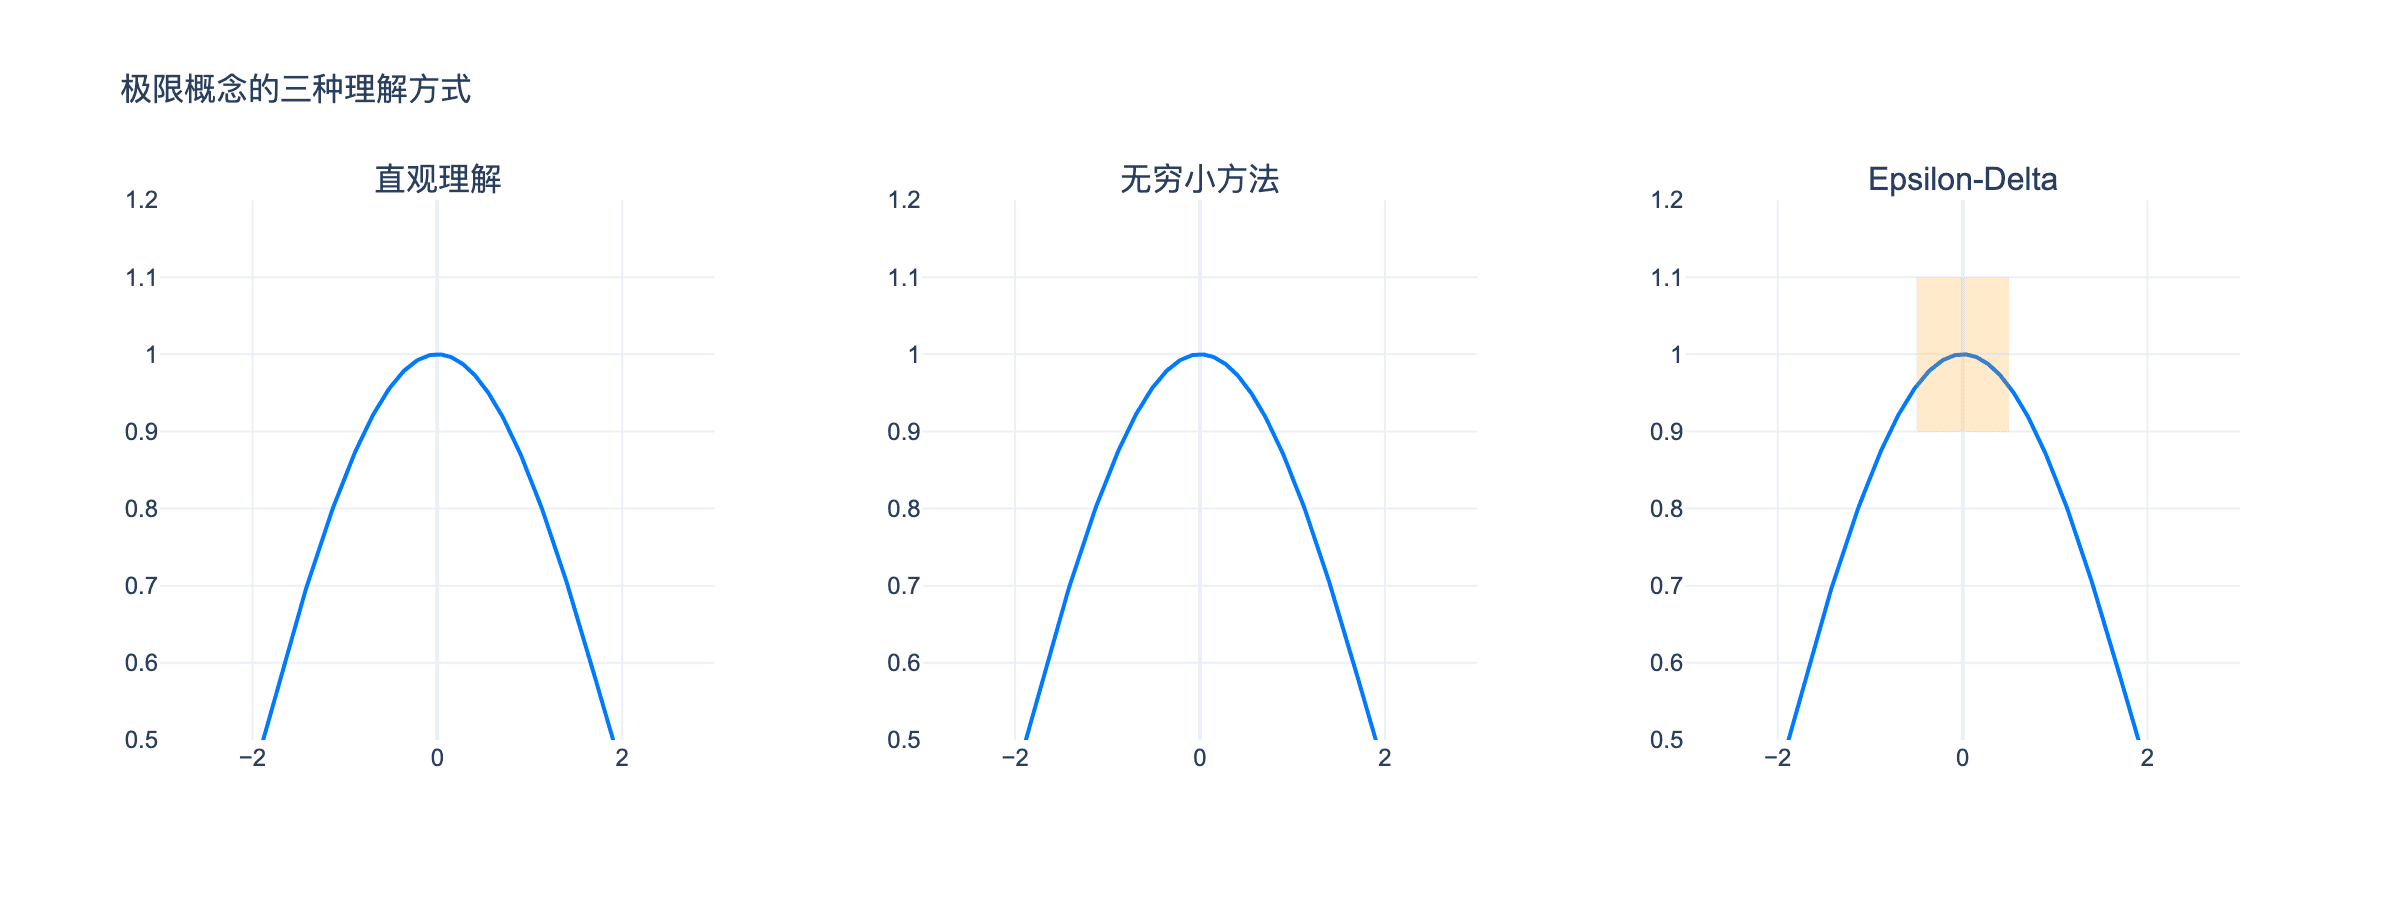
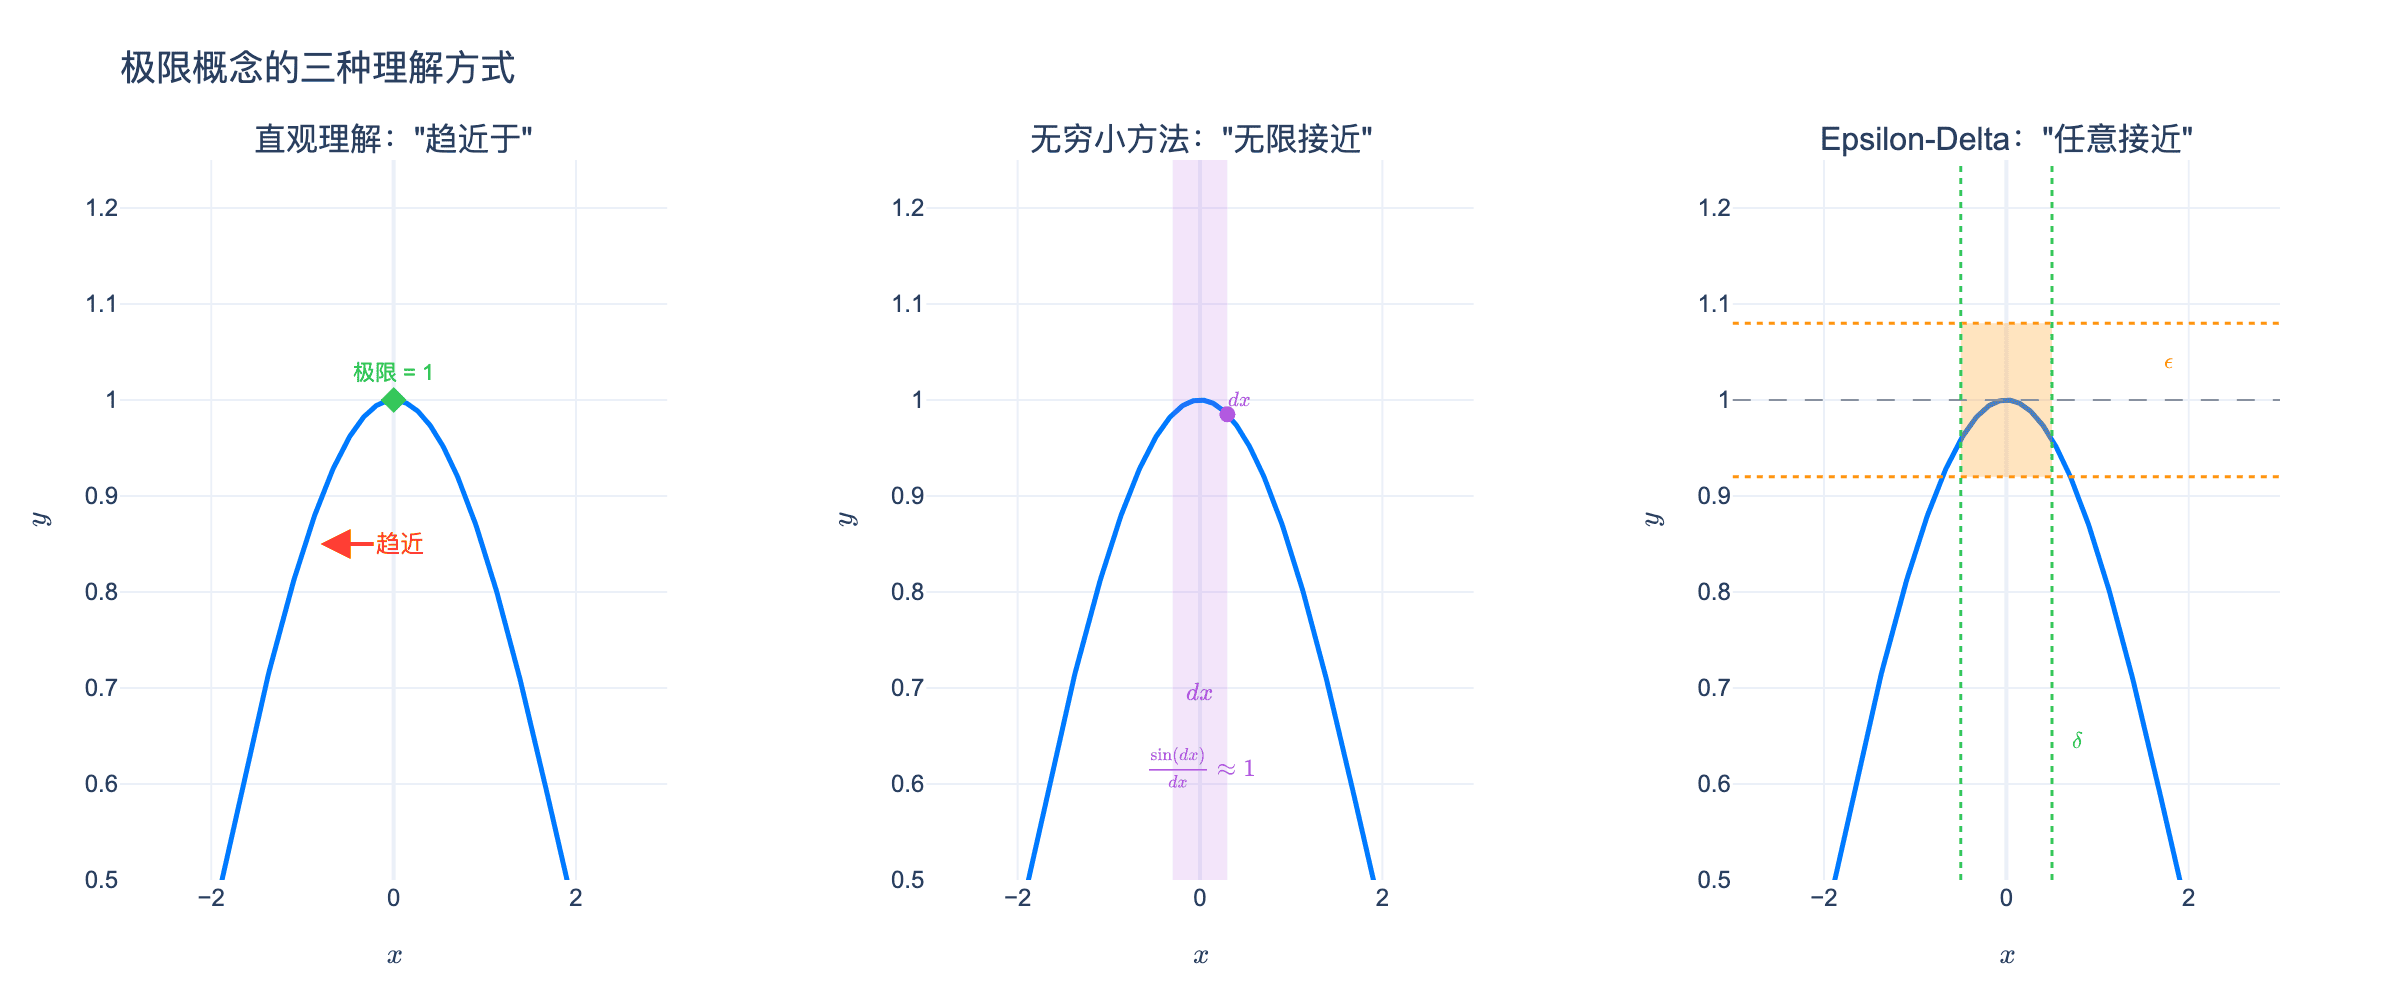
Update content

diff --git a/generate_epsilon_delta_plots.py b/generate_epsilon_delta_plots.py
@@ -142,51 +142,106 @@ def plot_limit_concept_evolution():
             '无穷小方法："无限接近"', 
             'Epsilon-Delta："任意接近"'
         ),
-        horizontal_spacing=0.1
+        horizontal_spacing=0.12
     )
     
     # 子图1: 直观理解
     fig.add_trace(go.Scatter(
         x=x[x != 0], y=y[x != 0],
         mode='lines',
-        line=dict(color='#007AFF', width=2),
-        name='$\\frac{\\sin x}{x}$',
+        line=dict(color='#007AFF', width=2.5),
         showlegend=False
     ), row=1, col=1)
     
-    # 添加 "趋近" 箭头
-    fig.add_annotation(x=-1.5, y=0.9, text='趋近于', showarrow=True,
-                       arrowhead=2, arrowcolor='#FF3B30',
-                       ax=1.5, ay=0, row=1, col=1)
-    fig.add_annotation(x=0, y=1, text='目标值 1', showarrow=True,
-                       arrowhead=2, arrowcolor='#34C759',
-                       ax=0, ay=-30, row=1, col=1)
+    # 添加 "趋近" 箭头 - 从左侧指向原点
+    fig.add_annotation(
+        x=-0.8, y=0.85, 
+        text='趋近',
+        showarrow=True,
+        arrowhead=2, 
+        arrowcolor='#FF3B30',
+        arrowsize=1.5,
+        arrowwidth=2,
+        ax=40,  # 箭头指向右侧
+        ay=0,
+        font=dict(size=12, color='#FF3B30'),
+        row=1, col=1
+    )
+    
+    # 目标值标注
+    fig.add_trace(go.Scatter(
+        x=[0], y=[1],
+        mode='markers+text',
+        marker=dict(color='#34C759', size=10, symbol='diamond'),
+        text=['极限 = 1'],
+        textposition='top center',
+        textfont=dict(size=11, color='#34C759'),
+        showlegend=False
+    ), row=1, col=1)
     
     # 子图2: 无穷小方法
     fig.add_trace(go.Scatter(
         x=x[x != 0], y=y[x != 0],
         mode='lines',
-        line=dict(color='#007AFF', width=2),
+        line=dict(color='#007AFF', width=2.5),
         showlegend=False
     ), row=1, col=2)
     
-    # 添加无穷小标记
-    fig.add_annotation(x=0.5, y=0.96, text='$dx$ 是无穷小', showarrow=False,
-                       font=dict(size=11, color='#AF52DE'), row=1, col=2)
-    fig.add_annotation(x=-0.5, y=0.96, text='$\\frac{\\sin dx}{dx} \\approx 1$', 
-                       showarrow=False, font=dict(size=11, color='#AF52DE'), row=1, col=2)
+    # 无穷小标记 - 在原点附近添加 dx 标记
+    dx_pos = 0.3
+    dy_val = np.sinc(dx_pos / np.pi)
+    
+    # 绘制 dx 区间
+    fig.add_vrect(
+        x0=-dx_pos, x1=dx_pos,
+        fillcolor='rgba(175, 82, 222, 0.15)',
+        line_width=0,
+        row=1, col=2
+    )
+    
+    # 无穷小标注
+    fig.add_annotation(
+        x=0, y=0.7,
+        text='$dx$ 为无穷小量',
+        showarrow=False,
+        font=dict(size=12, color='#AF52DE'),
+        row=1, col=2
+    )
+    fig.add_annotation(
+        x=0, y=0.62,
+        text='$\\frac{\\sin(dx)}{dx} \\approx 1$',
+        showarrow=False,
+        font=dict(size=12, color='#AF52DE'),
+        row=1, col=2
+    )
+    
+    # 在 dx 位置画标记点
+    fig.add_trace(go.Scatter(
+        x=[dx_pos], y=[dy_val],
+        mode='markers',
+        marker=dict(color='#AF52DE', size=8, symbol='circle'),
+        showlegend=False
+    ), row=1, col=2)
+    fig.add_annotation(
+        x=dx_pos + 0.15, y=dy_val + 0.02,
+        text='$dx$',
+        showarrow=False,
+        font=dict(size=10, color='#AF52DE'),
+        row=1, col=2
+    )
     
     # 子图3: Epsilon-Delta
     fig.add_trace(go.Scatter(
         x=x[x != 0], y=y[x != 0],
         mode='lines',
-        line=dict(color='#007AFF', width=2),
+        line=dict(color='#007AFF', width=2.5),
         showlegend=False
     ), row=1, col=3)
     
     # 添加 epsilon 带状区域
-    epsilon = 0.1
-    x_band = np.linspace(-0.5, 0.5, 50)
+    epsilon = 0.08
+    delta = 0.5
+    x_band = np.linspace(-delta, delta, 50)
     y_upper = np.full_like(x_band, 1 + epsilon)
     y_lower = np.full_like(x_band, 1 - epsilon)
     
@@ -194,26 +249,48 @@ def plot_limit_concept_evolution():
         x=np.concatenate([x_band, x_band[::-1]]),
         y=np.concatenate([y_upper, y_lower[::-1]]),
         fill='toself',
-        fillcolor='rgba(255, 149, 0, 0.2)',
+        fillcolor='rgba(255, 149, 0, 0.25)',
         line=dict(color='rgba(0,0,0,0)'),
         showlegend=False
     ), row=1, col=3)
     
+    # epsilon 水平线
+    fig.add_hline(y=1 + epsilon, line=dict(color='#FF9500', width=1.5, dash='dot'), row=1, col=3)
+    fig.add_hline(y=1 - epsilon, line=dict(color='#FF9500', width=1.5, dash='dot'), row=1, col=3)
     fig.add_hline(y=1, line=dict(color='#8E8E93', width=1, dash='dash'), row=1, col=3)
-    fig.add_annotation(x=1.5, y=1.05, text='$\\epsilon$ 误差带', showarrow=False,
-                       font=dict(size=10, color='#FF9500'), row=1, col=3)
+    
+    # delta 垂直线
+    fig.add_vline(x=delta, line=dict(color='#34C759', width=1.5, dash='dot'), row=1, col=3)
+    fig.add_vline(x=-delta, line=dict(color='#34C759', width=1.5, dash='dot'), row=1, col=3)
+    
+    # 标注
+    fig.add_annotation(
+        x=1.8, y=1 + epsilon/2,
+        text='$\\epsilon$ 误差带',
+        showarrow=False,
+        font=dict(size=11, color='#FF9500'),
+        row=1, col=3
+    )
+    fig.add_annotation(
+        x=delta + 0.3, y=0.65,
+        text='$\\delta$ 邻域',
+        showarrow=False,
+        font=dict(size=11, color='#34C759'),
+        row=1, col=3
+    )
     
     fig.update_layout(
-        title=dict(text='极限概念的三种理解方式', font=dict(size=16)),
+        title=dict(text='极限概念的三种理解方式', font=dict(size=18)),
         template='plotly_white',
         font=dict(family='Arial, sans-serif', size=12),
         width=1200,
-        height=450
+        height=500,
+        margin=dict(t=80, b=60, l=60, r=60)
     )
     
     for i in range(1, 4):
-        fig.update_xaxes(range=[-3, 3], row=1, col=i)
-        fig.update_yaxes(range=[0.5, 1.2], row=1, col=i)
+        fig.update_xaxes(range=[-3, 3], row=1, col=i, title_text='$x$')
+        fig.update_yaxes(range=[0.5, 1.25], row=1, col=i, title_text='$y$')
     
     save_and_compress(fig, 'static/images/plots/limit_concept_evolution.png')
     return fig
